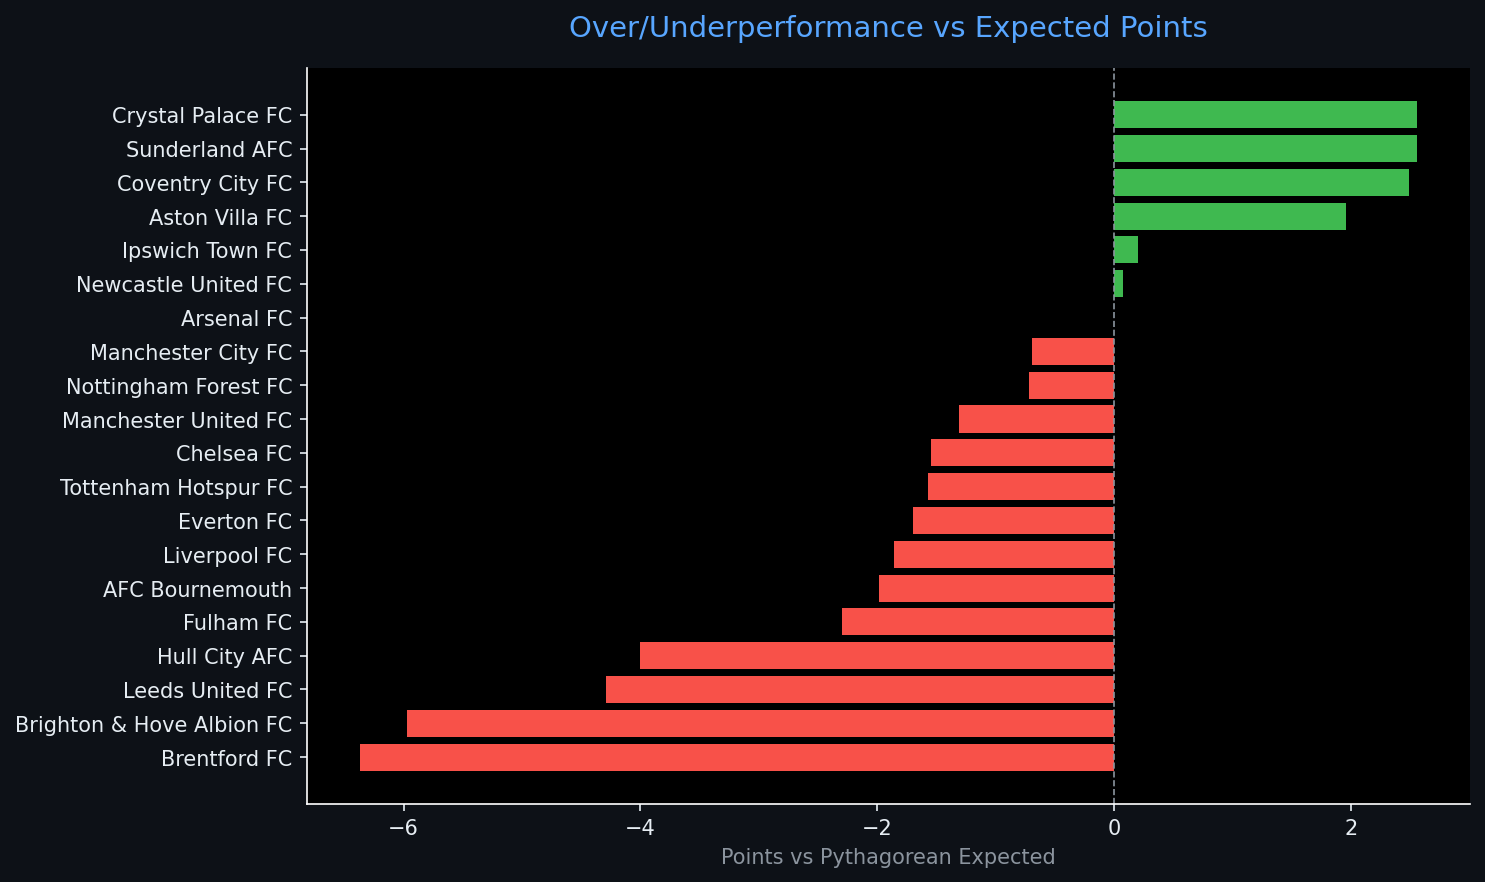
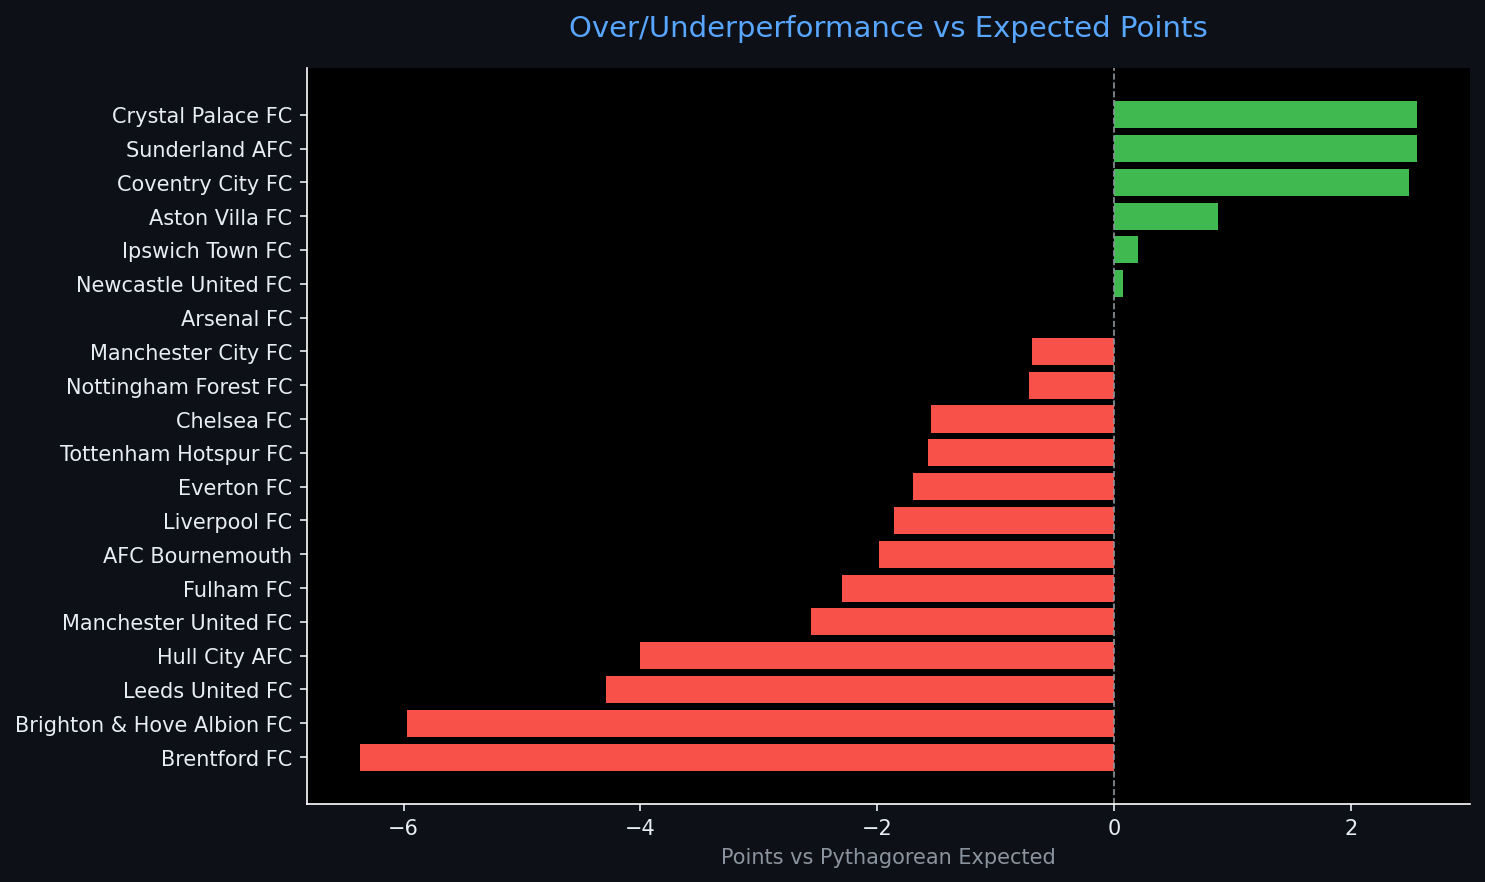
Automated ETL data update: 2026-11-08 21:32

diff --git a/reports/pipeline_report.html b/reports/pipeline_report.html
@@ -4,7 +4,7 @@
 <head>
     <meta charset="UTF-8">
     <meta name="viewport" content="width=device-width, initial-scale=1.0">
-    <title>Sports Data Pipeline Report — 2026-11-08 16:28</title>
+    <title>Sports Data Pipeline Report — 2026-11-08 21:32</title>
     <style>
         body { font-family: 'Segoe UI', sans-serif; background: #0d1117; color: #e6edf3; margin: 0; padding: 2rem; }
         h1   { color: #58a6ff; border-bottom: 1px solid #30363d; padding-bottom: 0.5rem; }
@@ -20,7 +20,7 @@
 </head>
 <body>
     <h1>⚽ Sports Data Pipeline — Automated Report</h1>
-    <p class="meta">Generated: 2026-11-08 16:28 UTC &nbsp;|&nbsp; Sport: <strong>football</strong> &nbsp;|&nbsp; Rows: <strong>20</strong></p>
+    <p class="meta">Generated: 2026-11-08 21:32 UTC &nbsp;|&nbsp; Sport: <strong>football</strong> &nbsp;|&nbsp; Rows: <strong>20</strong></p>
     <span class="badge">Pipeline v1.0.0</span>
     <h2>📊 Data Table</h2>
     <table class="dataframe data-table">
@@ -179,6 +179,21 @@
     </tr>
     <tr>
       <td>10</td>
+      <td>Aston Villa FC</td>
+      <td>10</td>
+      <td>13</td>
+      <td>3</td>
+      <td>4</td>
+      <td>3</td>
+      <td>14</td>
+      <td>17</td>
+      <td>0.300</td>
+      <td>1.300</td>
+      <td>0.404</td>
+      <td>NaN</td>
+    </tr>
+    <tr>
+      <td>11</td>
       <td>Tottenham Hotspur FC</td>
       <td>10</td>
       <td>12</td>
@@ -193,7 +208,7 @@
       <td>NaN</td>
     </tr>
     <tr>
-      <td>11</td>
+      <td>12</td>
       <td>Newcastle United FC</td>
       <td>10</td>
       <td>12</td>
@@ -205,21 +220,6 @@
       <td>0.300</td>
       <td>1.200</td>
       <td>0.398</td>
-      <td>NaN</td>
-    </tr>
-    <tr>
-      <td>12</td>
-      <td>Aston Villa FC</td>
-      <td>9</td>
-      <td>12</td>
-      <td>3</td>
-      <td>3</td>
-      <td>3</td>
-      <td>10</td>
-      <td>13</td>
-      <td>0.333</td>
-      <td>1.333</td>
-      <td>0.372</td>
       <td>NaN</td>
     </tr>
     <tr>
@@ -299,6 +299,21 @@
     </tr>
     <tr>
       <td>18</td>
+      <td>Manchester United FC</td>
+      <td>10</td>
+      <td>8</td>
+      <td>1</td>
+      <td>5</td>
+      <td>4</td>
+      <td>14</td>
+      <td>19</td>
+      <td>0.100</td>
+      <td>0.800</td>
+      <td>0.352</td>
+      <td>NaN</td>
+    </tr>
+    <tr>
+      <td>19</td>
       <td>Sunderland AFC</td>
       <td>10</td>
       <td>8</td>
@@ -310,21 +325,6 @@
       <td>0.200</td>
       <td>0.800</td>
       <td>0.181</td>
-      <td>NaN</td>
-    </tr>
-    <tr>
-      <td>19</td>
-      <td>Manchester United FC</td>
-      <td>9</td>
-      <td>7</td>
-      <td>1</td>
-      <td>4</td>
-      <td>4</td>
-      <td>10</td>
-      <td>15</td>
-      <td>0.111</td>
-      <td>0.778</td>
-      <td>0.308</td>
       <td>NaN</td>
     </tr>
     <tr>
@@ -362,7 +362,7 @@
         
         <tr><td>Null Values</td><td>93</td></tr>
         
-        <tr><td>Run Timestamp (UTC)</td><td>2026-11-08T16:28:36.627223</td></tr>
+        <tr><td>Run Timestamp (UTC)</td><td>2026-11-08T21:32:19.403748</td></tr>
         
         <tr><td>ML Features Ready</td><td>False</td></tr>
         
